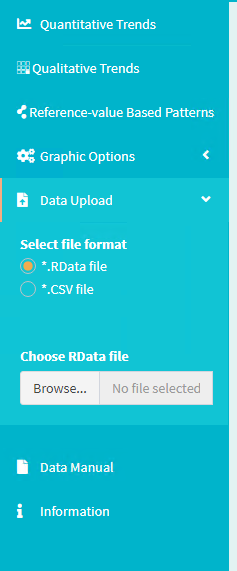
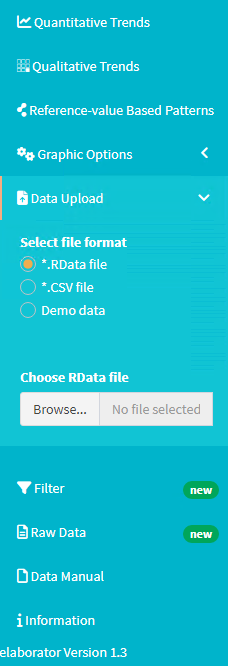
- add captions and hyperlinks - update upload picture

diff --git a/README.md b/README.md
@@ -17,11 +17,17 @@ You can find a concept description of each type of analysis in the following. Av
 Aim: Examine changes in laboratory values across study visits and explore whether changes differ between treatment groups. 
 
 
-This type of analysis depicts the distribution of laboratory parameters in each study visit. An example is shown in Figure 1. Figure 1 shows the distribution of platelets (in giga/l) in the 2 mg dose group at all four visits during a study ('Randomization', 'Treatment 1', 'End of Treatment' and 'Follow-up 3'). Distributions are shown using boxplots. The middle 50% of patient-specific values fall inside the box. The median value is represented by the horizontal line crossing through the box and might be used as an indicator for the central tendency. The whiskers indicate the variability in the values. The upper whisker is derived as the smaller of the maximum observed laboratory value and the third quartile (i.e. upper limit of the box) + 1.5 x interquartile range. The upper whisker is derived as the larger of the minimum observed laboratory value and the first quartile (i.e. lower limit of the box) - 1.5 x interquartile range. Values outside of the box and whiskers (outliers) are indicated as filled points.
+This type of analysis depicts the distribution of laboratory parameters in each study visit. An example is shown in [Figure 1](#fig1). Figure 1 shows the distribution of platelets (in giga/l) in the 2 mg dose group at all four visits during a study ('Randomization', 'Treatment 1', 'End of Treatment' and 'Follow-up 3'). Distributions are shown using boxplots. The middle 50% of patient-specific values fall inside the box. The median value is represented by the horizontal line crossing through the box and might be used as an indicator for the central tendency. The whiskers indicate the variability in the values. The upper whisker is derived as the smaller of the maximum observed laboratory value and the third quartile (i.e. upper limit of the box) + 1.5 x interquartile range. The upper whisker is derived as the larger of the minimum observed laboratory value and the first quartile (i.e. lower limit of the box) - 1.5 x interquartile range. Values outside of the box and whiskers (outliers) are indicated as filled points.
 
 Changes over time can be easily detected by a shift in the boxplots along the y-axis. In this example, a  decrease in platelets is observed until the End of Treatment-Visit followed by a subsequent increase between the End of Treatment-Visit and the Follow-Up 3-Visit.
 
+<a name="fig1"></a>
+<figure>
 <img src='inst/www/Fig1.png' alt='Graphic cannot be displayed' width='300' height='300'>
+<figcaption>
+<b>Figure 1</b>: <i>Example plot for quantitative trends analysis. The distribution of platelets (in giga/l) is shown for the 2 mg dose group at four study visits 'Randomization', 'Treatment 1', 'End of Treatment' and 'Follow-up 3'. Normal range, i.e. upper limit of normal and lower limit of normal, are indicated by dotted horizontal lines. </i>
+</figcaption>
+</figure>
 
 ## Qualitative Trends
 
@@ -32,15 +38,21 @@ This type of analysis assesses frequent time courses that are described through 
 
 In this way, the patterns / time courses for each patient can be derived and the frequency of each pattern / time course can be counted. The time courses and frequencies are transferred to a diagram-like structure. Each cell of this diagram represents one specific pattern / time course. The time courses are arranged in a symmetric way within the diagram. For example, the time course '+ + +' is represented in the cell in the top, while the 'opposite' time course '- - -' is in the cell at the bottom of the diagram. There are three entries within each of the cells: the first and second entries show the absolute and relative number of subjects in the treatment group which have the specific time course, and the third entry shows the respective time course. You can use the font size slider to display the entries and increase the size of the numbers. By default, the font size is set to 0, that is, all entries are blocked. When a time course does not occur at all (i.e. the frequency and percentage are 0), the entries of the cell are not shown by default.
 
-The frequency of a time course is shown by the color of the cell. Darker colors reflect more frequent and lighter colors less frequent time courses. The color key is provided on the right side of Figure 2. It can also be suppressed by clicking on the 'Open/close'-button above the color legend.  No more than approx. 5 visits are recommended because diagrams will get too complex with increasing number of cells.
+The frequency of a time course is shown by the color of the cell. Darker colors reflect more frequent and lighter colors less frequent time courses. The color key is provided on the right side of [Figure 2](#fig2). It can also be suppressed by clicking on the 'Open/close'-button above the color legend.  No more than approx. 5 visits are recommended because diagrams will get too complex with increasing number of cells.
 
+<a name="fig2"></a>
+<figure>
 <img src='inst/www/Fig2.png' alt='Graphic cannot be displayed' width='500' height='350'>
+<figcaption>
+<b>Figure 2</b>: <i>Example plot for qualitative trends analysis (left) and color key (right). Frequent patterns of increases/decreases in platelets between four subsequent study visits within the 2mg dose group are shown. The background of the cell is colored depending on the frequency of the respective pattern (cf. color key).</i>
+</figcaption>
+</figure>
 
 ## Reference-value Based Patterns
 
 Aim: Assess how many patients have laboratory values outside the normal range during the study and whether there is a difference between treatment groups.
             
-The tree diagram consists of a starting point (i.e. the root of the tree) and several layers. The first layer represents the first visit, the second layer the second visit, and so on. An example for a specific laboratory parameter in the placebo group is shown in Figure 3. You are able to track patients during the trial, and identify at which visits abnormal laboratory values occur. From the starting point the sample is split up into two groups: one group with patients who have laboratory values outside the normal range at the first visit (lower path / orange circle) and the other group of patients with laboratory values inside the normal range at the first visit (upper path / green circle). Each of the groups is then split up based on the laboratory values at the second visit, and so on. Note that patients may have different normal ranges for the same laboratory parameter.
+The tree diagram consists of a starting point (i.e. the root of the tree) and several layers. The first layer represents the first visit, the second layer the second visit, and so on. An example for a specific laboratory parameter in the placebo group is shown in [Figure 3](#fig3). You are able to track patients during the trial, and identify at which visits abnormal laboratory values occur. From the starting point the sample is split up into two groups: one group with patients who have laboratory values outside the normal range at the first visit (lower path / orange circle) and the other group of patients with laboratory values inside the normal range at the first visit (upper path / green circle). Each of the groups is then split up based on the laboratory values at the second visit, and so on. Note that patients may have different normal ranges for the same laboratory parameter.
 
 The size of the circles is proportional to the number of patients. This enables users to identify frequent patterns (e.g. normal - abnormal - abnormal - normal) among visits. The total number of patients is depicted inside the circle at the starting point.
 
@@ -48,8 +60,13 @@ No more than approx. 5 visits are recommended because tree structures will get t
 
 Laboratory parameters without reference range(s) are not analysed. Thus, for the reference-value based pattern analysis the total number of plots shown might be smaller than for the other two analyses types.
 
+<a name="fig3"></a>
+<figure>
 <img src='inst/www/Fig3.png' alt='Graphic cannot be displayed' width='350' height='400'>
-
+<figcaption>
+<b>Figure 3</b>: <i>Example plot for reference-value based pattern analysis. The number of patients with hematocrit (HCT) values within the reference range(green) or outside the reference range(orange) at four visits, 'Randomization', 'Treatment 1', 'End of Treatment' and 'Follow-up 3', for the placebo group are shown. </i>
+</figcaption>
+</figure>
 
 ## Installation
 
